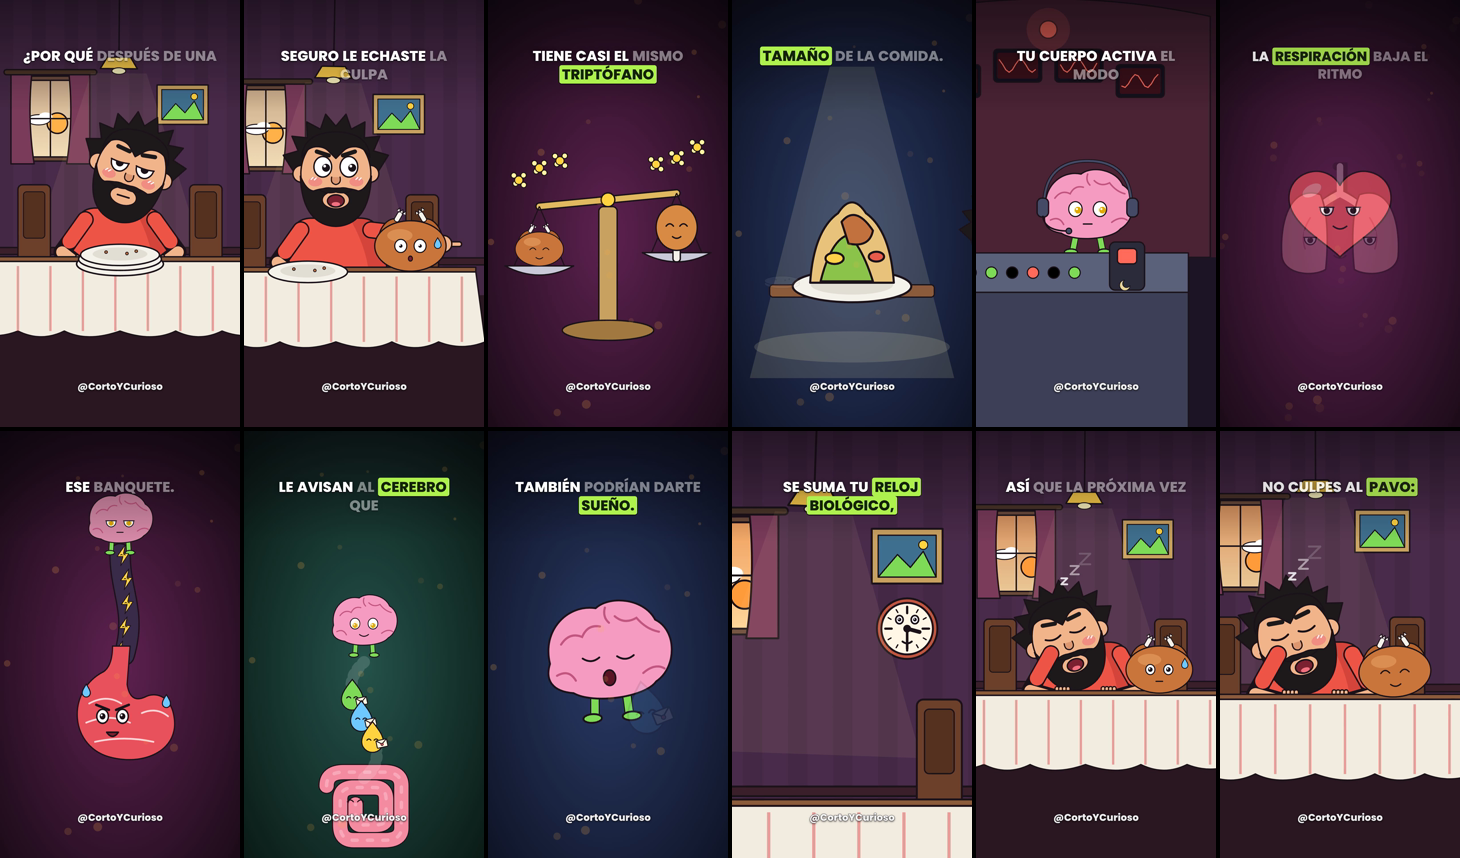
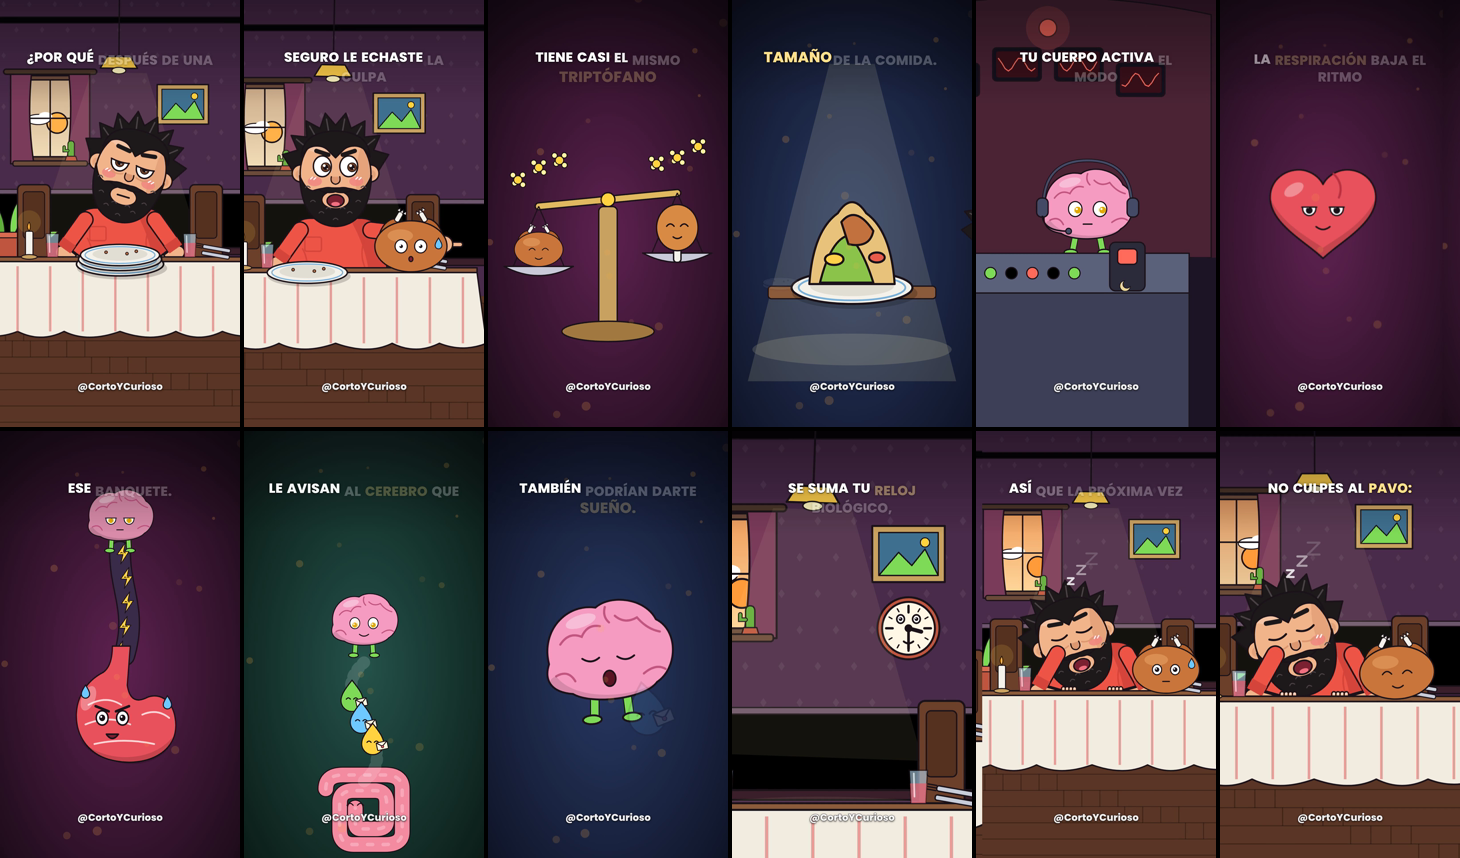
Fábrica: transiciones variadas, golpes de zoom en palabras clave y subtítulos sobrios
Claude-Session: https://claude.ai/code/session_01D2vhzsauGbaH4AxSxUQzsr

diff --git a/fabrica/video/src/lib/base.tsx b/fabrica/video/src/lib/base.tsx
@@ -105,33 +105,34 @@ export const trocear = (palabras: Palabra[]) => {
   return out;
 };
 
-/** Subtítulos arriba: pendientes atenuadas, dichas en blanco, clave en recuadro lima */
+/**
+ * Subtítulos arriba, sobrios: blanco con sombra suave, sin recuadros. Cada palabra aparece cuando se dice
+ * (sube y se aclara); la palabra clave se pinta en amarillo suave con un pequeño salto.
+ */
 export const Subtitulos: React.FC<{ palabras: Palabra[]; claves: string[] }> = ({ palabras, claves }) => {
   const f = useCurrentFrame();
   const t = f / FPS;
   const trozos = React.useMemo(() => trocear(palabras), [palabras]);
   const set = React.useMemo(() => new Set(claves.map(norm)), [claves]);
   const fin = (i: number) => (trozos[i + 1] ? trozos[i + 1][0].start - 0.05 : trozos[i][trozos[i].length - 1].end + 0.8);
-  const idx = trozos.findIndex((c, i) => t >= c[0].start - 0.12 && t < fin(i));
+  const idx = trozos.findIndex((c, i) => t >= c[0].start - 0.1 && t < fin(i));
   if (idx < 0) return null;
   const c = trozos[idx];
-  const o = interpolate(t, [c[0].start - 0.12, c[0].start, fin(idx) - 0.15, fin(idx)], [0, 1, 1, 0], { extrapolateLeft: 'clamp', extrapolateRight: 'clamp' });
-  const sc = interpolate(t, [c[0].start - 0.12, c[0].start + 0.08], [0.9, 1], { extrapolateLeft: 'clamp', extrapolateRight: 'clamp' });
+  const o = interpolate(t, [fin(idx) - 0.12, fin(idx)], [1, 0], { extrapolateLeft: 'clamp', extrapolateRight: 'clamp' });
   let n = 0;
   return (
-    <div style={{ position: 'absolute', top: 210, left: 80, width: 920, textAlign: 'center', opacity: o, transform: `scale(${sc})`, lineHeight: 1.3 }}>
+    <div style={{ position: 'absolute', top: 220, left: 90, width: 900, textAlign: 'center', opacity: o, lineHeight: 1.25 }}>
       {c.map((p, i) => {
-        const dicha = t >= p.start - 0.03;
-        const clave = set.has(norm(p.w)) && n < 2;
+        const k = Math.max(0, Math.min(1, (t - p.start + 0.06) / 0.12));
+        const clave = set.has(norm(p.w)) && n < 1;
         if (clave) n++;
+        const salto = clave ? 1 + 0.12 * Math.max(0, Math.sin(Math.min(1, (t - p.start) / 0.25) * Math.PI)) : 1;
         return (
           <span key={i} style={{
-            display: 'inline-block', margin: '0 8px', fontFamily: 'Poppins, sans-serif', fontWeight: 800, fontSize: 64,
-            color: clave ? '#14210a' : '#fff', opacity: clave || dicha ? 1 : 0.45,
-            background: clave ? '#aef04e' : 'transparent', borderRadius: 10, padding: clave ? '0 12px' : 0,
-            transform: clave && dicha ? `scale(${1 + 0.06 * Math.max(0, 1 - (t - p.start) * 4)})` : 'none',
-            textShadow: clave ? 'none' : '0 4px 0 rgba(10,6,12,.9), 0 0 18px rgba(0,0,0,.6)',
-            boxShadow: clave ? '0 4px 0 rgba(10,6,12,.9)' : 'none',
+            display: 'inline-block', margin: '0 9px', fontFamily: 'Poppins, sans-serif', fontWeight: 800, fontSize: 60, letterSpacing: 0.5,
+            color: clave ? '#ffe08a' : '#ffffff', opacity: 0.25 + 0.75 * k,
+            transform: `translateY(${(1 - k) * 14}px) scale(${salto})`,
+            textShadow: '0 3px 0 rgba(0,0,0,.55), 0 0 14px rgba(0,0,0,.55)',
           }}>{p.w.toUpperCase()}</span>
         );
       })}
@@ -144,28 +145,85 @@ export const MarcaDeAgua: React.FC = () => (
     fontSize: 44, color: 'rgba(255,255,255,.92)', WebkitTextStroke: '2px rgba(20,10,20,.9)', paintOrder: 'stroke fill', textShadow: '0 3px 8px rgba(0,0,0,.7)' }}>@CortoYCurioso</div>
 );
 
-const Fade: React.FC<{ first: boolean; children: React.ReactNode }> = ({ first, children }) => {
+// ---------- transiciones ----------
+export type Transicion = 'fundido' | 'zoom' | 'barrido' | 'empuje' | 'iris' | 'destello';
+export const T_TRANS = 12; // fotogramas que dura cada transición
+const EZ = Easing.bezier(0.65, 0, 0.35, 1);
+const cl = (x: number) => Math.max(0, Math.min(1, x));
+
+/** Envuelve un plano y aplica la transición de entrada (la suya) y de salida (la del plano siguiente). */
+const Plano: React.FC<{ dur: number; entra?: Transicion; sale?: Transicion; children: React.ReactNode }> = ({ dur, entra, sale, children }) => {
   const f = useCurrentFrame();
-  return <AbsoluteFill style={{ opacity: first ? 1 : interpolate(f, [0, 10], [0, 1], { extrapolateRight: 'clamp' }) }}>{children}</AbsoluteFill>;
+  const pi = entra ? EZ(cl(f / T_TRANS)) : 1;
+  const po = sale ? EZ(cl((f - dur) / T_TRANS)) : 0;
+  let opacity = 1, tx = 0, ty = 0, sc = 1 + 0.035 * cl(f / Math.max(1, dur)), blur = 0, clip: string | undefined, flash = 0;
+  if (entra && pi < 1) {
+    if (entra === 'fundido') opacity = pi;
+    if (entra === 'zoom') { opacity = cl(pi * 1.6); sc *= 1.35 - 0.35 * pi; blur += (1 - pi) * 10; }
+    if (entra === 'barrido') { tx += (1 - pi) * 1080; blur += Math.sin(pi * Math.PI) * 8; }
+    if (entra === 'empuje') { ty += (1 - pi) * 1920; }
+    if (entra === 'iris') clip = `circle(${pi * 1250}px at 50% 55%)`;
+    if (entra === 'destello') { opacity = cl(pi * 3); flash = (1 - pi) * 0.85; }
+  }
+  if (sale && po > 0) {
+    if (sale === 'zoom') { sc *= 1 + 0.6 * po; blur += po * 10; }
+    if (sale === 'barrido') { tx -= po * 1080; blur += Math.sin(po * Math.PI) * 8; }
+    if (sale === 'empuje') { ty -= po * 600; opacity *= 1 - po * 0.5; }
+    if (sale === 'iris') sc *= 1 + 0.08 * po;
+  }
+  return (
+    <AbsoluteFill style={{ opacity, clipPath: clip, overflow: 'hidden' }}>
+      <AbsoluteFill style={{ transform: `translate(${tx}px,${ty}px) scale(${sc})`, filter: blur > 0.3 ? `blur(${blur}px)` : undefined }}>{children}</AbsoluteFill>
+      {flash > 0 && <AbsoluteFill style={{ background: '#fff', opacity: flash }} />}
+    </AbsoluteFill>
+  );
 };
 
+/** Golpes de zoom: pequeño acercamiento rápido en cada instante (segundos), que se relaja solo. */
+const Golpes: React.FC<{ tiempos: number[]; children: React.ReactNode }> = ({ tiempos, children }) => {
+  const f = useCurrentFrame();
+  let k = 0;
+  for (const g of tiempos) {
+    const d = f - g * FPS;
+    if (d >= 0 && d < 30) k += d < 4 ? (d / 4) * 0.055 : 0.055 * Math.exp(-(d - 4) / 7);
+  }
+  return <AbsoluteFill style={{ transform: `scale(${1 + k})` }}>{children}</AbsoluteFill>;
+};
+
+export type PlanoDef = [number, React.FC] | [number, React.FC, Transicion];
+const ROTACION: Transicion[] = ['zoom', 'barrido', 'fundido', 'empuje', 'iris', 'zoom', 'destello', 'barrido'];
+
 /**
- * Plantilla de video: planos [inicio en fotogramas, componente], subtítulos, marca y audio.
- * Cada plano se alarga 10 fotogramas para el fundido con el siguiente.
+ * Plantilla de video: planos [inicio en fotogramas, componente, transición de entrada opcional],
+ * subtítulos sobrios, golpes de zoom en las palabras clave, marca de agua y audio.
+ * Si un plano no dice su transición, se usa una rotación variada.
  */
-export const Video: React.FC<{ planos: [number, React.FC][]; total: number; palabras: Palabra[]; claves: string[]; audio?: string }> = ({ planos, total, palabras, claves, audio = 'mezcla.wav' }) => (
-  <AbsoluteFill style={{ background: '#0b0e1e' }}>
-    {planos.map(([start, C], i) => {
-      const end = i + 1 < planos.length ? planos[i + 1][0] : total;
-      return (
-        <Sequence key={i} from={start} durationInFrames={end - start + (i + 1 < planos.length ? 10 : 0)}>
-          <Fade first={i === 0}><C /></Fade>
-        </Sequence>
-      );
-    })}
-    <AbsoluteFill style={{ background: 'linear-gradient(to bottom, rgba(8,4,10,.55) 0%, rgba(8,4,10,0) 26%)' }} />
-    <Subtitulos palabras={palabras} claves={claves} />
-    <MarcaDeAgua />
-    <Audio src={staticFile(((getInputProps() as { audio?: string }).audio) ?? audio)} />
-  </AbsoluteFill>
-);
+export const Video: React.FC<{ planos: PlanoDef[]; total: number; palabras: Palabra[]; claves: string[]; audio?: string; golpes?: number[] }> = ({ planos, total, palabras, claves, audio = 'mezcla.wav', golpes }) => {
+  const trans = planos.map((p, i) => (i === 0 ? undefined : (p[2] ?? ROTACION[(i - 1) % ROTACION.length])));
+  // golpes automáticos: la primera palabra clave de cada frase, separados al menos 1,5 s
+  const auto = React.useMemo(() => {
+    if (golpes) return golpes;
+    const set = new Set(claves.map(norm)); const out: number[] = [];
+    trocear(palabras).forEach((c) => { const k = c.find((p) => set.has(norm(p.w))); if (k && (!out.length || k.start - out[out.length - 1] > 1.5)) out.push(k.start); });
+    return out;
+  }, [palabras, claves, golpes]);
+  return (
+    <AbsoluteFill style={{ background: '#0b0e1e' }}>
+      <Golpes tiempos={auto}>
+        {planos.map(([start, C], i) => {
+          const end = i + 1 < planos.length ? planos[i + 1][0] : total;
+          const hay = i + 1 < planos.length;
+          return (
+            <Sequence key={i} from={start} durationInFrames={end - start + (hay ? T_TRANS : 0)}>
+              <Plano dur={end - start} entra={trans[i]} sale={hay ? trans[i + 1] : undefined}><C /></Plano>
+            </Sequence>
+          );
+        })}
+      </Golpes>
+      <AbsoluteFill style={{ background: 'linear-gradient(to bottom, rgba(8,4,10,.45) 0%, rgba(8,4,10,0) 24%)' }} />
+      <Subtitulos palabras={palabras} claves={claves} />
+      <MarcaDeAgua />
+      <Audio src={staticFile(((getInputProps() as { audio?: string }).audio) ?? audio)} />
+    </AbsoluteFill>
+  );
+};

diff --git a/fabrica/video/src/videos/2026-11-28-sueno-despues-de-comer/Video.tsx b/fabrica/video/src/videos/2026-11-28-sueno-despues-de-comer/Video.tsx
@@ -4,7 +4,7 @@
  */
 import React from 'react';
 import { useCurrentFrame } from 'remotion';
-import { Stage, Cam, ip, lin, pop, shake, INK, SW, Zzz, Gota, Video } from '../../lib/base';
+import { Stage, Cam, ip, lin, pop, shake, INK, SW, Zzz, Gota, Video, PlanoDef } from '../../lib/base';
 import { Barbudo, Cabeza } from '../../lib/Barbudo';
 import { Cerebro, Estomago, Corazon, Pulmones, Intestino, Mensajero, Rayo, Ojitos, Boquita } from '../../lib/Cuerpo';
 import { Comedor, Plato, Reloj, SalaControl } from '../../lib/Escenarios';
@@ -356,9 +356,9 @@ const P16: React.FC = () => { // culpa al tercer plato.
   );
 };
 
-const PLANOS: [number, React.FC][] = [
-  [0, P1], [108, P2], [180, P3], [228, P4], [309, P5], [420, P6], [465, P7], [564, P8],
-  [607, P9], [663, P10], [768, P11], [921, P12], [1023, P13], [1119, P14], [1200, P15], [1330, P16],
+const PLANOS: PlanoDef[] = [
+  [0, P1], [108, P2, 'barrido'], [180, P3, 'iris'], [228, P4, 'zoom'], [309, P5, 'destello'], [420, P6, 'zoom'], [465, P7, 'zoom'], [564, P8, 'barrido'],
+  [607, P9, 'barrido'], [663, P10, 'empuje'], [768, P11, 'fundido'], [921, P12, 'zoom'], [1023, P13, 'iris'], [1119, P14, 'fundido'], [1200, P15, 'barrido'], [1330, P16, 'destello'],
 ];
 const CLAVES = ['dormir', 'pavo', 'inocente', 'triptófano', 'pollo', 'culpable', 'tamaño', 'estómago', 'descansar', 'digerir', 'corazón', 'respiración',
   'energía', 'hormonas', 'cerebro', 'satisfecho', 'sueño', 'tarde', 'reloj', 'biológico', 'sobremesa', 'tercer', 'plato'];

diff --git a/.claude/skills/videos-diarios/SKILL.md b/.claude/skills/videos-diarios/SKILL.md
@@ -88,6 +88,17 @@ Hay dos vías; usa la que esté disponible en la sesión:
   Reutiliza la biblioteca; crea en el propio archivo los personajes nuevos que el tema necesite (mismo estilo:
   colores planos, contorno INK de 6 px, ojitos con brillo, reacciones exageradas).
 - Todo se mueve en todo momento: cámara (`Cam` con zoom/paneo), parpadeos, rebotes, pop de entrada.
+- **Zooms y transiciones** (ya los pone la plantilla `Video`):
+  - Cada plano tiene un acercamiento lento automático, y hay un **golpe de zoom** automático en la primera
+    palabra clave de cada frase. Dentro de los planos, usa además zooms de cámara con intención: acercamiento
+    rápido a una cara en la reacción, alejamiento para revelar algo, paneo siguiendo una acción, `shake` en impactos.
+  - Cada plano declara su transición de entrada como tercer elemento: `[inicio, Plano, 'zoom']`. Opciones:
+    `zoom` (entrar al cuerpo o acercarse a un detalle), `barrido` (cambio rápido de lugar o de idea),
+    `empuje` (subir o bajar por el cuerpo), `iris` (revelar o enfocar algo), `destello` (giro, sorpresa, remate),
+    `fundido` (paso de tiempo o momento tranquilo). Varíalas: no repitas la misma más de 2 veces seguidas.
+- **Subtítulos**: usa los de la plantilla (blancos, sobrios, sin recuadros, la palabra clave en amarillo suave),
+  **aunque la skill de estilo diga recuadro verde lima**: el usuario pidió subtítulos que no opaquen el video.
+  En `CLAVES` pon pocas palabras (las de verdad importantes): solo se resalta una por frase.
 - Prohibido: diálogos, bocas que se mueven como si hablaran, texto dentro de las escenas (salvo cifras), arte
   importante por encima de y≈430 (zona de subtítulos) o tapando caras.
 - Si un componente de la biblioteca te sirvió y es genérico, muévelo a `lib/` para los próximos videos.
